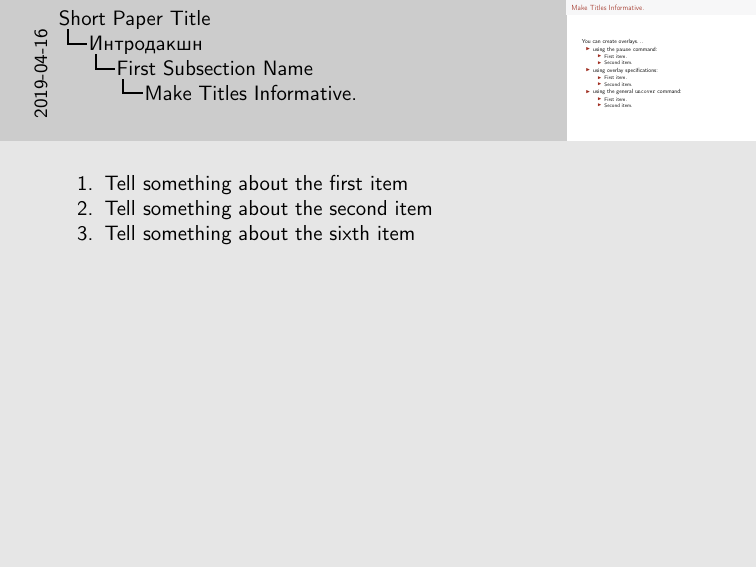
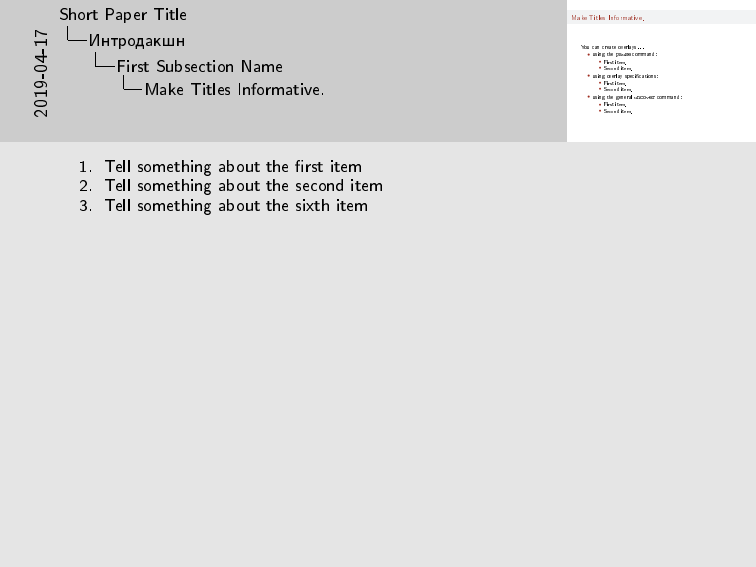
Добавил тему Peterhof в дополнение к цветовой

Changed region(s): [[0.0913, 0.2698, 0.578, 0.4497], [0.0304, 0.0, 0.4868, 0.2099], [0.7606, 0.0, 0.9127, 0.2099]]

diff --git a/beamer.tex b/beamer.tex
@@ -35,8 +35,8 @@
 
 \mode<presentation>
 {
-  \usetheme{default}
-  \usecolortheme{terracotta}
+  \usetheme{Peterhof}
+  \usecolortheme{default}
   % or ...
 
   \setbeamercovered{invisible}
@@ -47,8 +47,8 @@
 % is a graphic format that can be processed by latex or pdflatex,
 % resp., then you can add a logo as follows:
 
-\pgfdeclareimage[height=1.5cm]{university-logo}{univer-logo}
-\logo{\pgfuseimage{university-logo}}
+%\pgfdeclareimage[height=1.5cm]{university-logo}{univer-logo}
+%\logo{\pgfuseimage{university-logo}}
 
 \usepackage[russian, english]{babel}
 % or whatever
@@ -85,7 +85,7 @@
 % - Keep it simple, no one is interested in your street address.
 
 \date[Short Occasion] % (optional)
-{Date / Occasion}
+%{Date / Occasion}
 
 \subject{Talks}
 % This is only inserted into the PDF information catalog. Can be left

diff --git a/README.md b/README.md
@@ -3,7 +3,7 @@
 Шаблон презентации Мат-Меха и не только. Используются цвета и логотип, вдохновленные одним местным вузом.
 Логотип вуза взят на [сайте](http://spbu.ru).
 
-Beamer template with a theme inspired by a certain university located in Peterhof, Russia. University logo is used from [here](http://spbu.ru)
+Beamer template with a theme inspired by a certain university located in Peterhof, Russia. University logo is used from [here](http://spbu.ru).
 
 ## Сборка/Build
 
@@ -11,9 +11,9 @@ Beamer template with a theme inspired by a certain university located in Peterho
 
 `latex beamer.tex; dvips beamer.dvi; ps2pdf beamer.ps`
 
-При сборке с `pdflatex` будет использоваться png лого
+При сборке с `pdflatex` будет использоваться png лого.
 
-If you build with `pdflatex` png logo will be used
+If you build with `pdflatex` png logo will be used.
 
 ## Скриншоты/Screenshots
 
